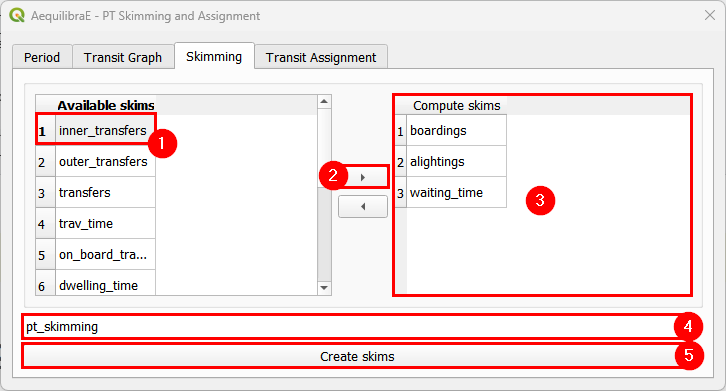
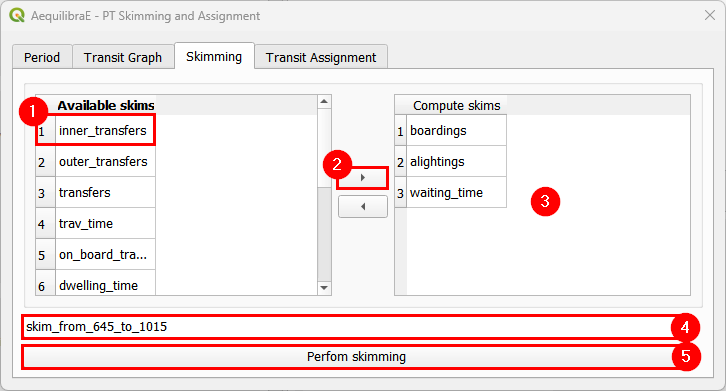
docs

diff --git a/docs/source/menus_in_detail/public_transport.rst b/docs/source/menus_in_detail/public_transport.rst
@@ -61,13 +61,73 @@ project.
     :align: center
     :alt: gtfs already exists
 
-Skimming
---------
+Transit skimming and assignment
+-------------------------------
+
+QAequilibraE has now incorporated two of AequilibraE's newest features: transit skimming and transit
+assignment. In this sub-section, we'll replicate AequilibraE's examples and show you how to add
+a new Period to your transit model.
+
+The Transit skimming and assignment module consists in four different tabs. "*Periods*" is the 
+first tab and it displays a visualization of the periods in the project. It also has a clickable 
+button for you to add a custom period as desired. Notice that, a period representing all day-long 
+(``period_id == 1``) exists by default.
+
+.. image:: ../images/pt_assign_1.png
+    :align: center
+    :alt: periods tab
+
+The second tab is "*Transit Graph*", in which you will add the configuration of the graph that will
+be created. The four checkboxes at the top of the tab indicate some characteristics of the network
+and you can select all that apply. 
+
+Skimming with custom period
+~~~~~~~~~~~~~~~~~~~~~~~~~~~
+
+In this example we'll create a custom period and its related skimming. We start at the tab "*Periods*"
+clicking on the *Add new period* button. 
+
+.. image:: ../images/pt_assign_2.png
+    :align: center
+    :alt: click on add new period
+
+A new window containing the fields period start, end, and description will open. Add the appropriate
+time and description and hit the *Add period* button at the bottom.
+
+.. image:: ../images/pt_assign_3.png
+    :align: center
+    :alt: add new period window
+
+The window will close and the period will be automatically shown in the Periods table view. By default,
+the periods are numbered in an ascending order based on the number of the last period added. Notice that
+the start/end periods we added before are displayed as seconds at the table. Before continuing, select
+the desired period by clicking on it, otherwise an error will be thrown when skimming/assigning.
+
+.. image:: ../images/pt_assign_5.png
+    :align: center
+    :alt: select period
+
+At the tab "*Transit Graph*", we'll set up the configurations of the graph. For this example, we'll
+uncheck the boxes for "walking edges", "block centroid flows", and "save transit graph to database".
+We can let the other settings with their default values. As Coquimbo doesn't have many walking edges,
+we'll match the graph for cars.
+
+.. image:: ../images/pt_assign_7.png
+    :align: center
+    :alt: skimmming graph config
+
+Moving to the "*Skimming*" tab, we can select the skims we want, as well as select a name to our
+matrices file. 
+
+Transit assignment
+~~~~~~~~~~~~~~~~~~
+
+In this example, we'll perform the assignment for all day-long also for Coquimbo. This is a reproduction
+of an AequilibraE's `example <https://www.aequilibrae.com/develop/python/_auto_examples/public_transport/plot_public_transit_assignment.html#>`_.
 
 
-
-Explore Transit
----------------
+Explore transit network
+-----------------------
 
 Case you have already imported a GTFS feed into your project or you want to open a feed from an AequilibraE project 
 created with Python, you can click on **Public Transport > Explore Transit** to visualize the Transit 
